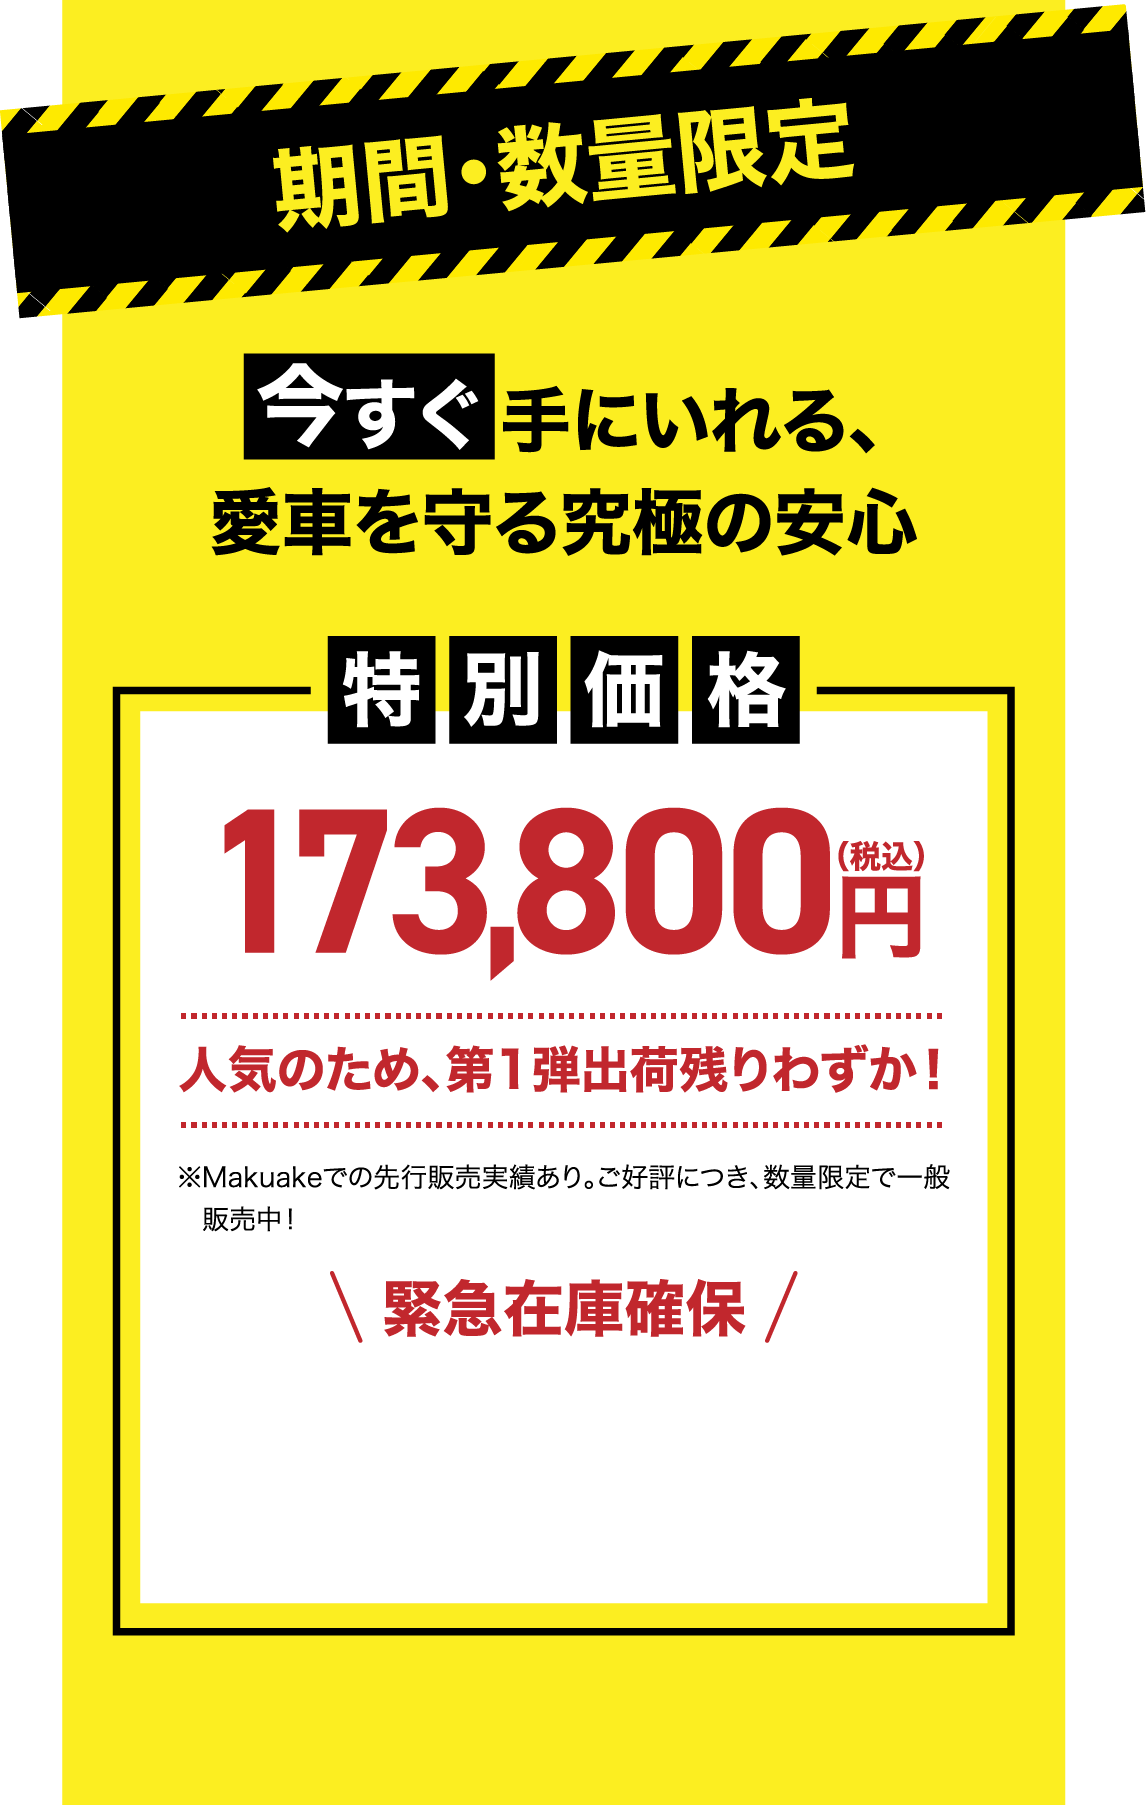
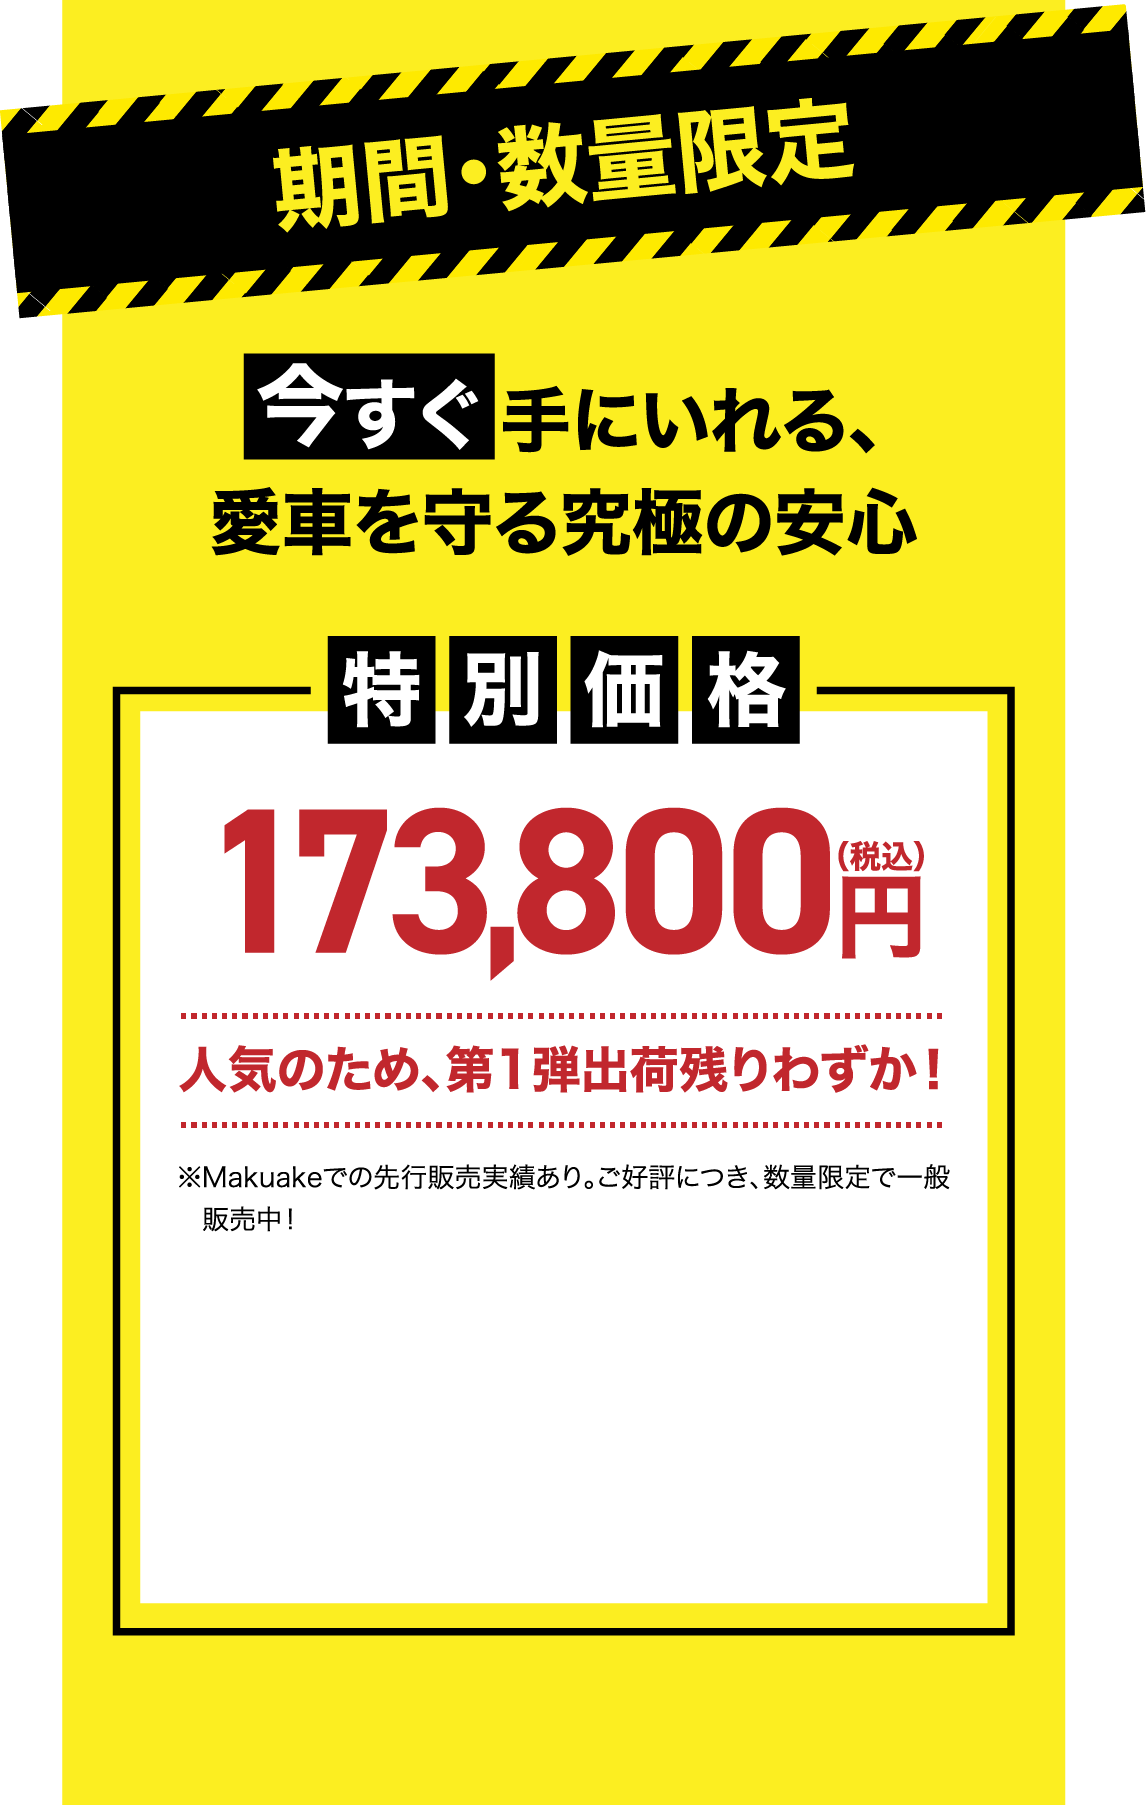
セクション09のCTAテキストとボタンを追加し、スタイルを調整。新しい画像を追加。

Changed region(s): [[0.336, 0.6825, 0.7024, 0.7446]]

diff --git a/index.html b/index.html
@@ -306,7 +306,7 @@
               </div>
             </div>
             <div class="sec07__cta">
-              <div class="sec07__cta-bg slidein js-animate">
+              <div class="sec07__cta-bg">
                 <img src="./image/sec07_cta_bg.webp" alt="cta">
               </div>
               <div class="sec07__cta-btn">
@@ -368,6 +368,9 @@
             <div class="sec09__image-cta">
               <div class="sec09__image-cta-bg">
                 <img src="./image/sec09_cta_bg.webp" alt="sec09">
+              </div>
+              <div class="sec09__image-cta-text blinking">
+                <img src="./image/sec09_cta_text.webp" alt="緊急在庫確保">
               </div>
               <div class="sec09__image-cta-btn">
                 <a href="https://lm-creators.slack.com/archives/D095CHJPE6Q/p1759204524385329?thread_ts=1759128915.561269&cid=D095CHJPE6Q">

diff --git a/scss/page/_all.scss b/scss/page/_all.scss
@@ -445,6 +445,13 @@ p {
     width: calc(764 / 640 * 100%);
     margin-left: calc(50% - (764 / 640 * 100% / 2));
 }
+.sec09__image-cta-text {
+    position: absolute;
+    left: 50%;
+    transform: translateX(-50%);
+    bottom: 30%;
+    width: calc(309 / 764 * 100%);
+}
 .sec09__image-cta-btn {
     position: absolute;
     left: 50%;

diff --git a/css/style.css b/css/style.css
@@ -779,6 +779,15 @@ p {
   margin-left: -9.6875%;
 }
 
+.sec09__image-cta-text {
+  position: absolute;
+  left: 50%;
+  -webkit-transform: translateX(-50%);
+          transform: translateX(-50%);
+  bottom: 30%;
+  width: 40.445026178%;
+}
+
 .sec09__image-cta-btn {
   position: absolute;
   left: 50%;
